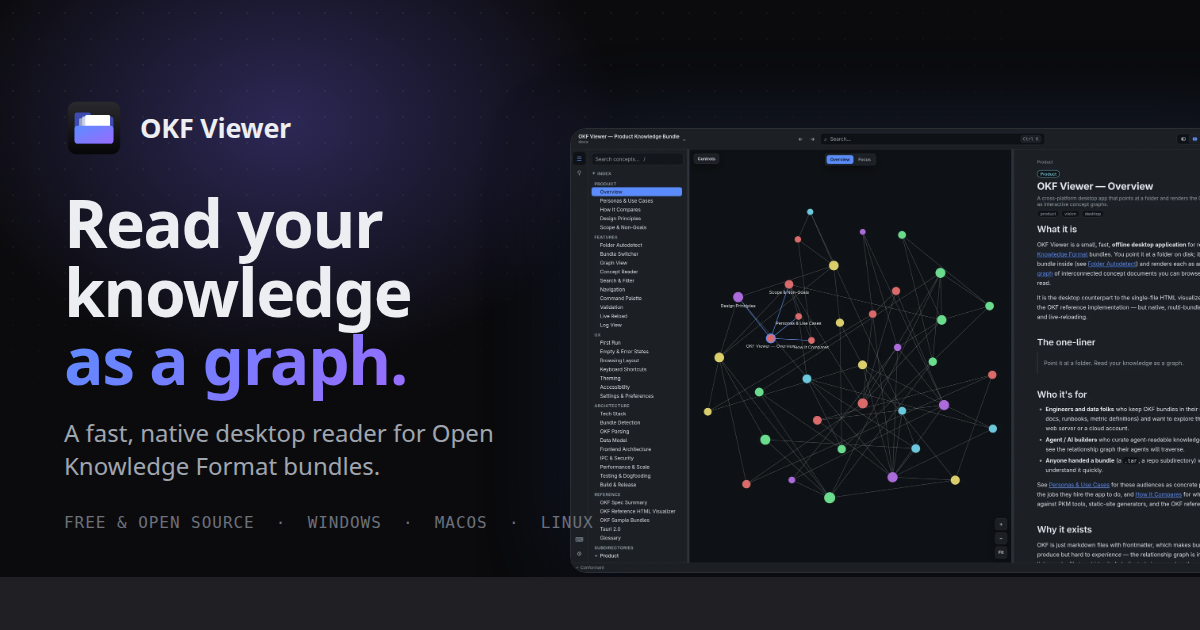
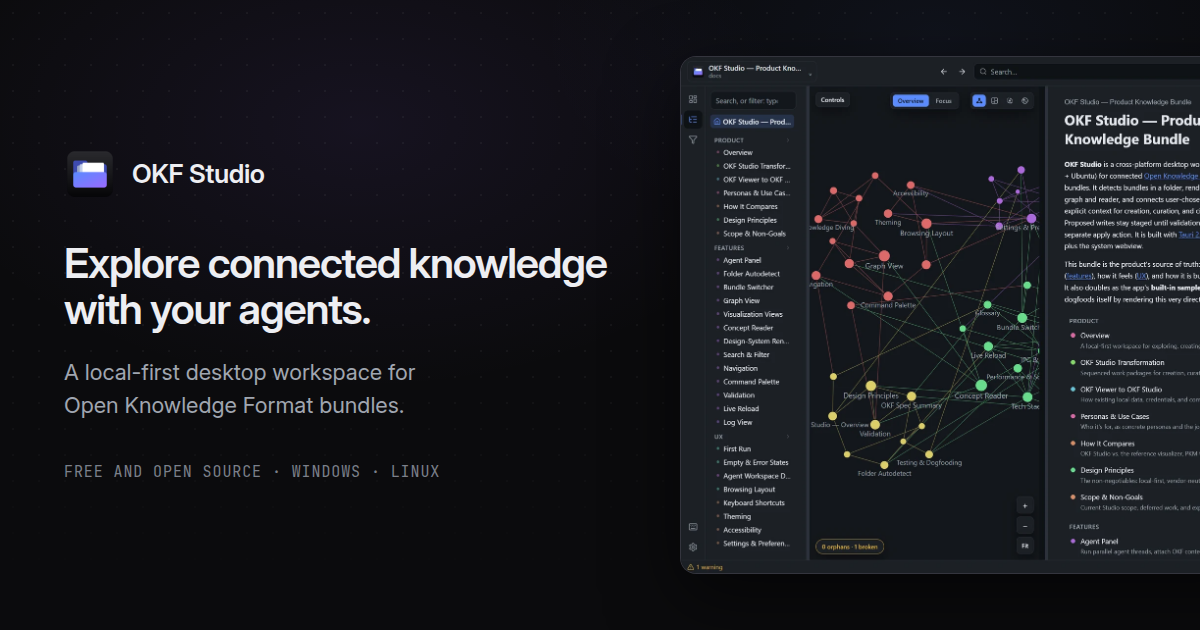
fix(site): regenerate the stale social card
og.png still showed "OKF Viewer", the old "Read your knowledge as a
graph." headline, and a platform line claiming macOS. It is the image
every share of this site renders, and it had been hand-made, so nothing
kept it in step with the product name or the design system.

It is now generated from scripts/og-template.html, a real page that
links the synced token stylesheet and the same self-hosted Inter build
the site ships, with its regeneration commands in the file header.

diff --git a/site/scripts/og-template.html b/site/scripts/og-template.html
@@ -1,0 +1,127 @@
+<!doctype html>
+<!--
+  Source of truth for public/og.png, the 1200x630 social card.
+
+  It is a real page rather than an image editor file, so the card cannot drift
+  from the design system: it links the synced token stylesheet and the same
+  self-hosted Inter build the site ships. Regenerate after changing the
+  headline, the version line, or the hero screenshot:
+
+    pnpm sync:ds
+    agent-browser open "file://$PWD/scripts/og-template.html"
+    agent-browser screenshot --full /tmp/og-full.png
+    python3 -c "from PIL import Image; \
+      Image.open('/tmp/og-full.png').crop((0,0,1200,630)).save('public/og.png')"
+
+  The page is exactly 630 tall and the card sits at the origin, so the crop is
+  the card. Capturing the element directly clips it to the window height.
+-->
+<html lang="en">
+<head>
+<meta charset="utf-8">
+<title>OKF Studio social card</title>
+<link rel="stylesheet" href="../src/styles/design-system/tokens.css">
+<style>
+  @font-face {
+    font-family: 'Inter Variable';
+    font-weight: 100 900;
+    src: url(../node_modules/@fontsource-variable/inter/files/inter-latin-standard-normal.woff2) format('woff2-variations');
+  }
+  @font-face {
+    font-family: 'JetBrains Mono Variable';
+    font-weight: 100 800;
+    src: url(../node_modules/@fontsource-variable/jetbrains-mono/files/jetbrains-mono-latin-wght-normal.woff2) format('woff2-variations');
+  }
+  body { margin: 0; background: #333; }
+
+  .og {
+    position: relative;
+    width: 1200px;
+    height: 630px;
+    display: grid;
+    grid-template-columns: 640px 1fr;
+    column-gap: 40px;
+    align-items: center;
+    overflow: hidden;
+    background:
+      radial-gradient(52% 60% at 30% 20%, color-mix(in oklab, var(--colors-secondary) 8%, transparent), transparent 70%),
+      radial-gradient(46% 50% at 78% 6%, color-mix(in oklab, var(--colors-primary) 6%, transparent), transparent 72%),
+      var(--colors-bg);
+    font-family: 'Inter Variable', system-ui, sans-serif;
+    font-optical-sizing: auto;
+    font-feature-settings: var(--font-features-sans);
+    color: var(--colors-text);
+    -webkit-font-smoothing: antialiased;
+  }
+  /* The same node-dot backdrop as the hero canvas. */
+  .og::before {
+    content: "";
+    position: absolute; inset: 0;
+    background-image: radial-gradient(color-mix(in oklab, var(--colors-text) 5%, transparent) 1px, transparent 1.6px);
+    background-size: 26px 26px;
+    -webkit-mask-image: linear-gradient(180deg, #000 0%, #000 55%, transparent 95%);
+  }
+  .og__copy { position: relative; padding: 0 0 0 64px; }
+
+  .og__brand {
+    display: flex; align-items: center; gap: 16px;
+    margin-bottom: 40px;
+    font-size: 26px; font-weight: 600; letter-spacing: var(--tracking-tight);
+  }
+  .og__brand img { width: 52px; height: 52px; border-radius: var(--radius-md); }
+
+  .og__title {
+    margin: 0 0 24px;
+    font-size: 42px; font-weight: 600;
+    line-height: 1.1; letter-spacing: var(--tracking-tighter);
+  }
+  .og__sub {
+    margin: 0 0 40px;
+    max-width: 27ch;
+    font-size: 22px; line-height: 1.5;
+    color: var(--colors-text-muted);
+  }
+  .og__meta {
+    margin: 0;
+    font-family: 'JetBrains Mono Variable', monospace;
+    font-size: 15px; letter-spacing: 0.06em; text-transform: uppercase;
+    color: var(--colors-text-dim);
+  }
+
+  /* The product shot runs off the right edge, the hero's grounded-media motif
+     turned sideways: rounded and bordered on the side that stays in frame. */
+  .og__art {
+    position: relative;
+    align-self: stretch;
+    margin: 56px -80px 56px 0;
+    border: var(--border-width) solid var(--colors-border-strong);
+    border-right: none;
+    border-radius: var(--radius-lg) 0 0 var(--radius-lg);
+    box-shadow: var(--shadow-lg);
+    overflow: hidden;
+    background: var(--colors-surface);
+  }
+  .og__art img {
+    display: block;
+    width: 760px; height: 100%;
+    object-fit: cover; object-position: left top;
+  }
+</style>
+</head>
+<body>
+  <div class="og">
+    <div class="og__copy">
+      <div class="og__brand">
+        <img src="../public/icon-512.png" alt="">
+        OKF Studio
+      </div>
+      <h1 class="og__title">Explore connected knowledge<br>with your agents.</h1>
+      <p class="og__sub">A local-first desktop workspace for Open Knowledge Format bundles.</p>
+      <p class="og__meta">Free and open source · Windows · Linux</p>
+    </div>
+    <figure class="og__art">
+      <img src="../public/screenshot-graph.webp" alt="">
+    </figure>
+  </div>
+</body>
+</html>
